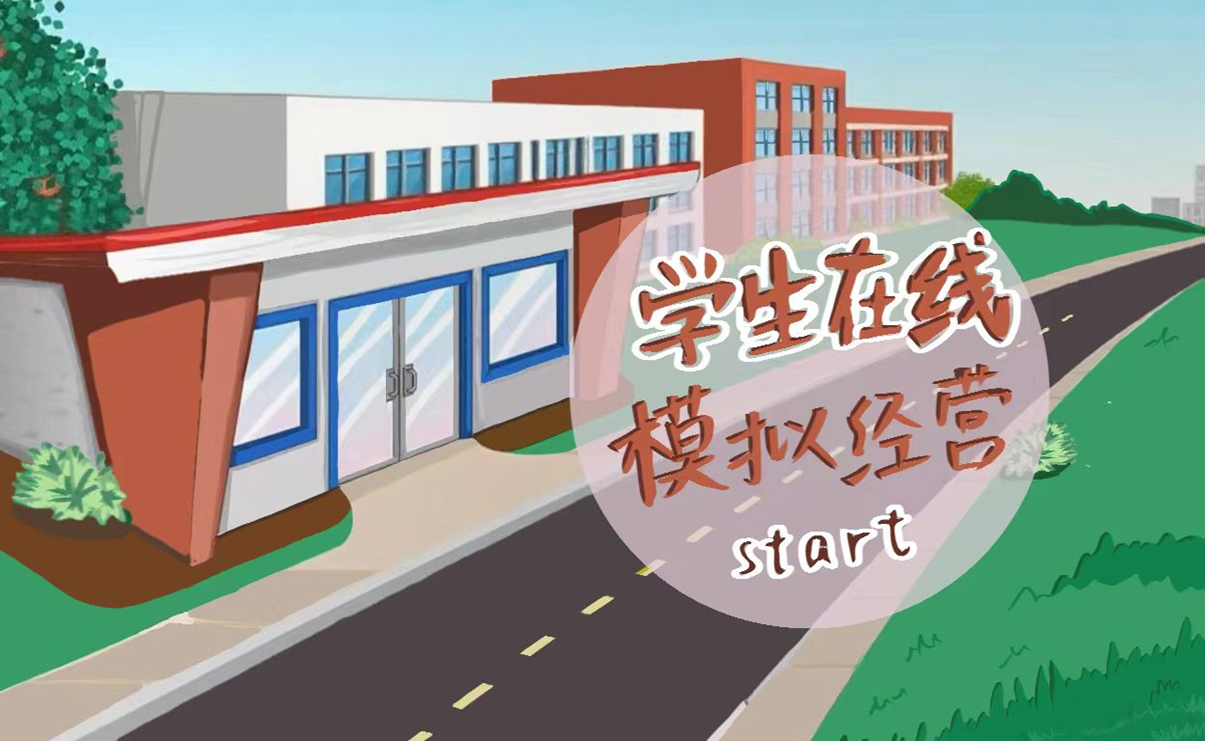
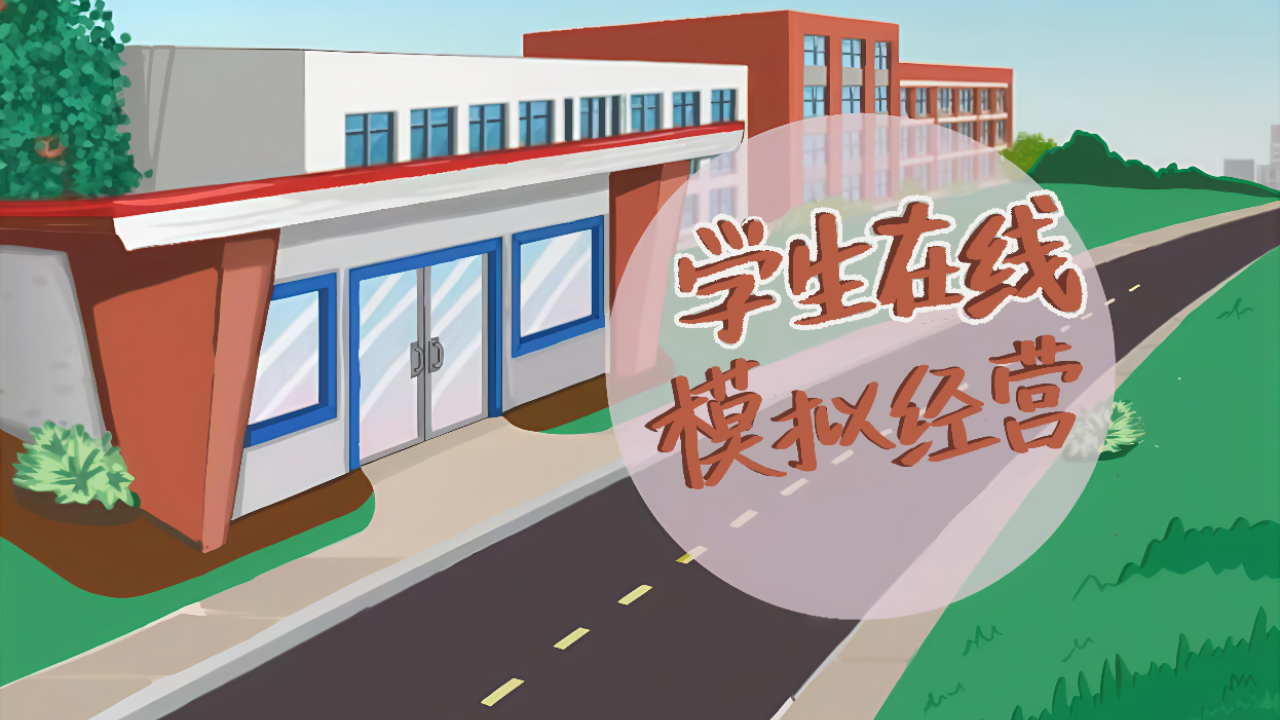
更新主页样式

diff --git a/src/game/scenes/MainMenu.ts b/src/game/scenes/MainMenu.ts
@@ -5,9 +5,10 @@ export class MainMenu extends Scene
 {
     // 背景
     background: GameObjects.Image;
-    
+     // 开始按钮
+    startButton: GameObjects.Image;
     // 菜单按钮
-    startButton: GameObjects.Graphics;
+    startButtonArea: GameObjects.Graphics;
     
     // 音频
     backgroundMusic: Phaser.Sound.BaseSound | null;
@@ -25,7 +26,7 @@ export class MainMenu extends Scene
         // 创建背景
         this.createBackground();
         //创建开始按钮区域
-        this.createStartButtonArea();
+        this.createStartButton()
         // 创建设置按钮
         this.createSettingsButton();
         // 设置音频（如果有的话）
@@ -47,32 +48,62 @@ export class MainMenu extends Scene
         const scaleY = this.cameras.main.height / this.background.height;
         this.background.setScale(scaleX,scaleY).setOrigin(0, 0);
     }
-
-    /** 
-     * 创建开始按钮区域
+    /**
+     * 创建开始按钮
      */
-    private createStartButtonArea(): void
-    {
-        this.startButton = this.add.graphics();
-        this.startButton.setScale(1.2);
-        this.startButton.setDepth(10);
+private createStartButton(): void {
+    // 创建按钮图片，初始位置可以随意，因为我们马上会重新定位它
+    this.startButton = this.add.image(0, 0, 'start-button');
     
-        // 画一个矩形按钮
-        this.startButton.fillStyle(0x000000, 0); // 透明填充
-        this.startButton.fillRoundedRect(0, 0, 220, 150, 10);
-    
-        // 设置位置
-        this.startButton.setPosition(740, 500);
-        this.startButton.rotation = Phaser.Math.DegToRad(-10);
-    
-        // 设置可交互区域
-        this.startButton.setInteractive(new Phaser.Geom.Rectangle(0, 0, 200, 100), Phaser.Geom.Rectangle.Contains);
-    
-        // 绑定点击事件
-        this.startButton.on('pointerdown', () => {
-            this.startGame();
+    // --- 1. 定位按钮 ---
+    // 获取屏幕的中心点坐标
+    const centerX = this.cameras.main.width / 2;
+    const centerY = this.cameras.main.height / 2;
+    // 将按钮设置在屏幕中心
+    this.startButton.setPosition(centerX+250, centerY+168);
+
+    this.startButton.setOrigin(0.5); // 设置锚点为中心，这样缩放和定位都以中心为准
+    this.startButton.setScale(0.25);  // 设置初始大小
+    this.startButton.setDepth(20);   // 确保按钮在最上层
+    this.startButton.setInteractive({ useHandCursor: true }); // 设置交互并显示手形光标
+
+    // 鼠标按下时的事件
+    this.startButton.on('pointerdown', () => {
+        // 创建一个短暂的 "按下" 动画
+        this.tweens.add({
+            targets: this.startButton,
+            scale: 0.23, // 按下时稍微再缩小一点
+            duration: 100, // 动画持续时间（毫秒）
+            ease: 'Power1', // 缓动函数，使动画更自然
+            onComplete: () => {
+                // 按下动画完成后立即开始游戏
+                this.startGame();
+            }
         });
-    }
+    });
+
+    // 鼠标悬停时的事件
+    this.startButton.on('pointerover', () => {
+        // 创建一个平滑放大的动画
+        this.tweens.add({
+            targets: this.startButton,
+            scale: 0.32, // 目标大小
+            duration: 200, // 动画持续时间
+            ease: 'Power2' // 使用一个更有弹性的缓动函数
+        });
+    });
+
+    // 鼠标离开时的事件
+    this.startButton.on('pointerout', () => {
+        // 创建一个平滑恢复到原始大小的动画
+        this.tweens.add({
+            targets: this.startButton,
+            scale: 0.25, // 恢复到初始大小
+            duration: 200,
+            ease: 'Power2'
+        });
+    });
+}
     
     /**
      * 创建设置按钮

diff --git a/src/game/scenes/Preloader.ts b/src/game/scenes/Preloader.ts
@@ -731,6 +731,7 @@ export class Preloader extends Scene
         this.load.image('button-normal', 'ui/buttons/buttonLong_beige.png');
         this.load.image('button-pressed', 'ui/buttons/buttonLong_beige_pressed.png');
         this.load.image('button-star', 'star.png'); // 使用星星作为按钮装饰
+        this.load.image('start-button', 'ui/buttons/start-button.png');
         this.load.image('settings', 'ui/buttons/setting.png');
         this.load.image('book', 'ui/icons/book.png');
         

diff --git a/src/game/scenes/Boot.ts b/src/game/scenes/Boot.ts
@@ -30,7 +30,7 @@ export class Boot extends Scene
         this.load.setPath('assets/');
         
         // 只加载Preloader场景需要的最基础资源
-        this.load.image('background', 'bg.png');
+        this.load.image('background', 'main-bg.png');
         this.load.image('loading-bg', 'bg.png'); // 备用背景
         this.load.image('logo', 'logo.png'); // 加载logo图片
         this.load.image('pure-logo', 'pure-logo.png'); // 加载pure-logo图片
